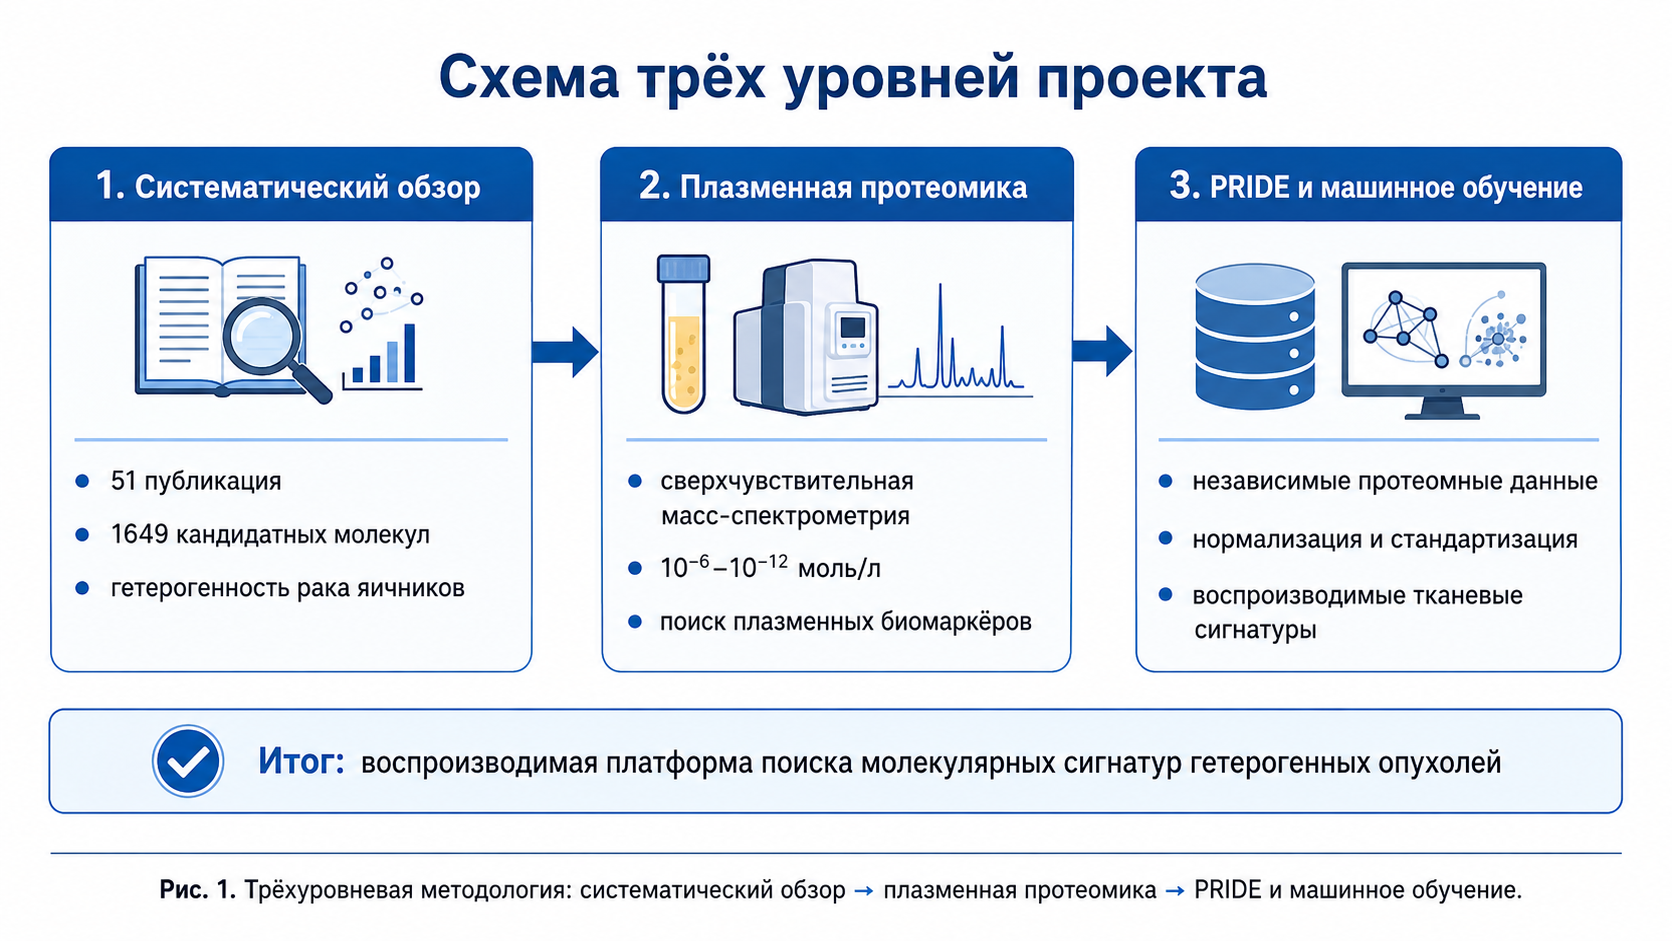
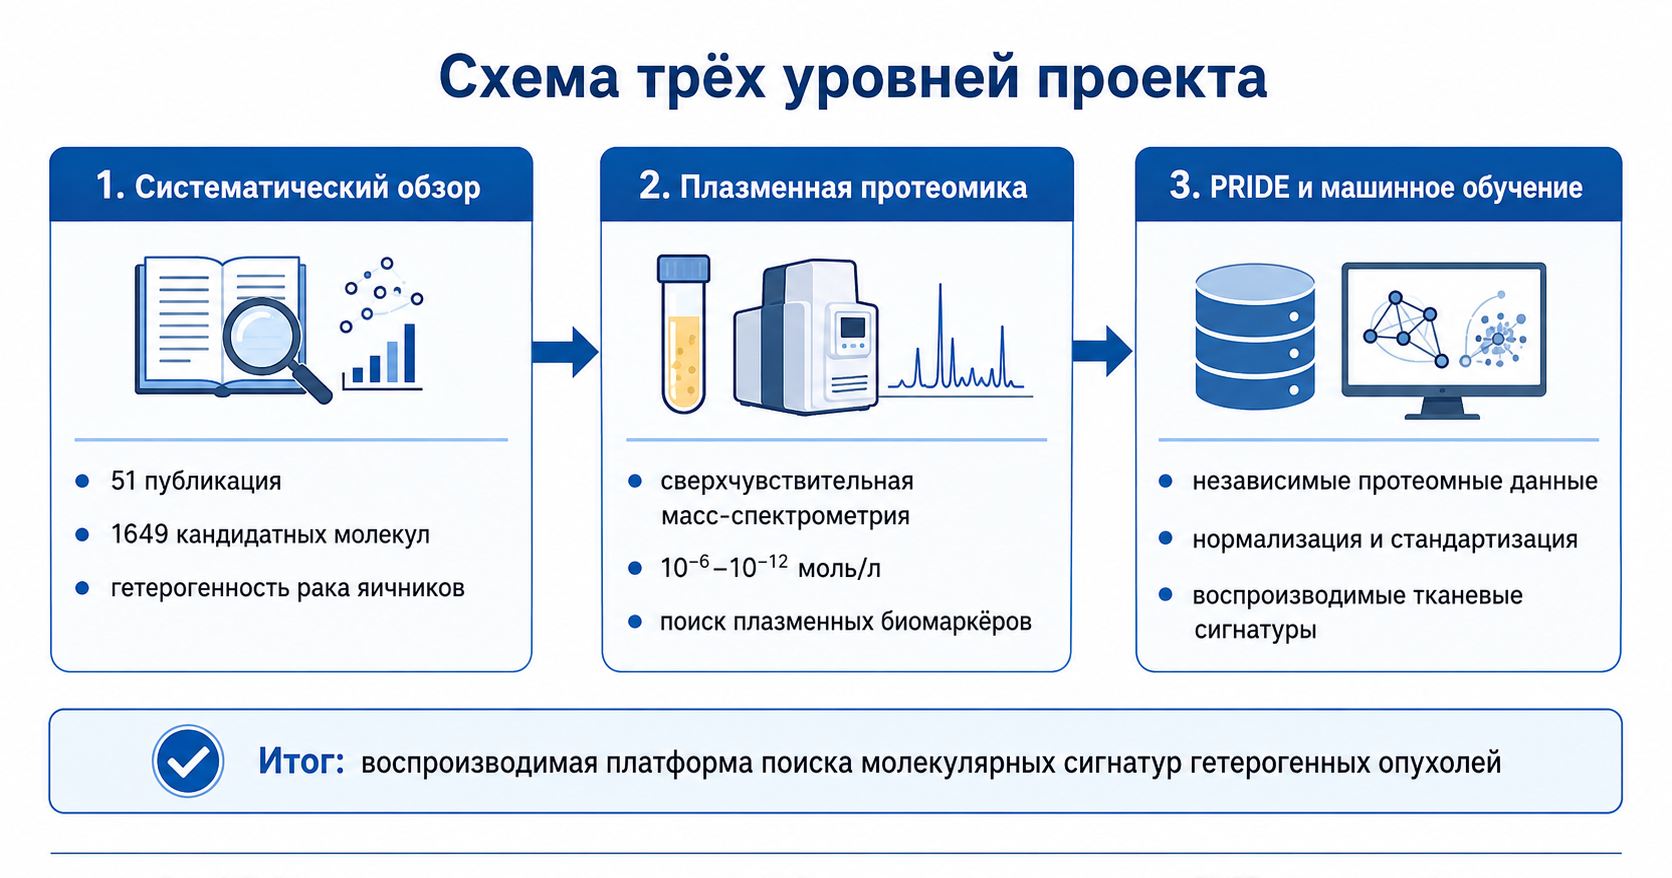
Remove Fig.1 caption from scheme image and HTML

Changed region(s): [[0.0311, 0.1538, 0.9641, 0.9841], [0.2488, 0.0615, 0.7775, 0.123]]

diff --git a/docs/index.html b/docs/index.html
@@ -28,7 +28,6 @@
         <div class="figure__scroll">
           <img src="images/scheme-3levels.png" alt="Схема трёх уровней проекта: систематический обзор, плазменная протеомика, PRIDE и машинное обучение" width="1100" height="auto" />
         </div>
-        <figcaption>Уровни&nbsp;1 и&nbsp;3 — при поддержке <a href="https://rscf.ru/project/24-74-10098/" target="_blank" rel="noopener">РНФ&nbsp;24-74-10098</a> (Ильгисонис&nbsp;Е.В., Ключникова&nbsp;А.А.). Уровень&nbsp;2 — УНУ «Авогадро», ИБМХ (Гордеева&nbsp;А.И.).</figcaption>
       </figure>
     </div>
   </div>

diff --git a/index.html b/index.html
@@ -28,7 +28,6 @@
         <div class="figure__scroll">
           <img src="images/scheme-3levels.png" alt="Схема трёх уровней проекта: систематический обзор, плазменная протеомика, PRIDE и машинное обучение" width="1100" height="auto" />
         </div>
-        <figcaption>Уровни&nbsp;1 и&nbsp;3 — при поддержке <a href="https://rscf.ru/project/24-74-10098/" target="_blank" rel="noopener">РНФ&nbsp;24-74-10098</a> (Ильгисонис&nbsp;Е.В., Ключникова&nbsp;А.А.). Уровень&nbsp;2 — УНУ «Авогадро», ИБМХ (Гордеева&nbsp;А.И.).</figcaption>
       </figure>
     </div>
   </div>